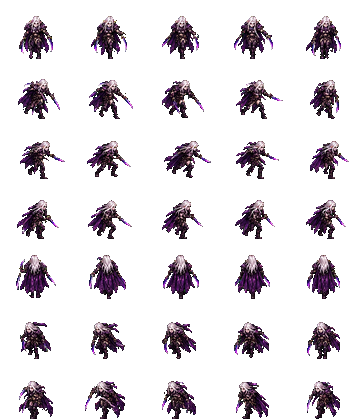
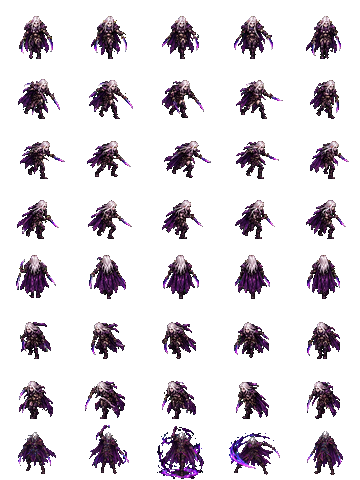
Позы применения умений для Найри, Урсуса и Малакора
Присланные позы (5 кадров с эффектом каста) добавлены восьмым рядом
в листы атаки, масштаб подогнан по росту героя. Теперь при умениях
герои проигрывают каст, а не просто поворачиваются лицом вниз.

Claude-Session: https://claude.ai/code/session_01AmWdLgRH5KkZouVun3YtrH

diff --git a/public/js/skins.js b/public/js/skins.js
@@ -30,22 +30,22 @@ window.Skins = (() => {
     },
     ursus: {
       sheet: 'assets/heroes/ursus_sheet.png', portrait: 'assets/heroes/ursus_portrait.png', w: 36, h: 48, frames: 5,
-      // Атака: 7 рядов — 5 направлений и два доп. ряда (влево); отдельной позы умения нет — для умений ряд «вниз»
-      attack: { sheet: 'assets/heroes/ursus_attack.png', w: 72, h: 60, frames: 5, rows: 7, cast: 0 },
+      // Атака: 8 рядов — 5 направлений, два доп. ряда и поза умения (последний)
+      attack: { sheet: 'assets/heroes/ursus_attack.png', w: 72, h: 60, frames: 5, rows: 8, cast: 7 },
       // bolt — летящее копьё
       fx: { sheet: 'assets/heroes/ursus_fx.png', size: 72, frames: 6, rows: ['bolt', 'hit', 'sic', 'packCall', 'spiritLink', 'aura'] },
     },
     nairi: {
       sheet: 'assets/heroes/nairi_sheet.png', portrait: 'assets/heroes/nairi_portrait.png', w: 36, h: 48, frames: 5,
-      // Атака: 7 рядов — 5 направлений и два доп. ряда; позы умения нет — для умений ряд «вниз»
-      attack: { sheet: 'assets/heroes/nairi_attack.png', w: 72, h: 60, frames: 5, rows: 7, cast: 0 },
+      // Атака: 8 рядов — 5 направлений, два доп. ряда и поза умения (последний)
+      attack: { sheet: 'assets/heroes/nairi_attack.png', w: 72, h: 60, frames: 5, rows: 8, cast: 7 },
       // bolt — летящий кинжал
       fx: { sheet: 'assets/heroes/nairi_fx.png', size: 72, frames: 6, rows: ['bolt', 'hit', 'markPrey', 'shadowDash', 'smokeScreen', 'aura'] },
     },
     malakor: {
       sheet: 'assets/heroes/malakor_sheet.png', portrait: 'assets/heroes/malakor_portrait.png', w: 36, h: 48, frames: 5,
-      // Атака: 7 рядов — 5 направлений и два доп. ряда; позы умения нет — для умений ряд «вниз»
-      attack: { sheet: 'assets/heroes/malakor_attack.png', w: 72, h: 60, frames: 5, rows: 7, cast: 0 },
+      // Атака: 8 рядов — 5 направлений, два доп. ряда и поза умения (последний)
+      attack: { sheet: 'assets/heroes/malakor_attack.png', w: 72, h: 60, frames: 5, rows: 8, cast: 7 },
       // bolt — теневой клинок (обычная атака издалека)
       fx: { sheet: 'assets/heroes/malakor_fx.png', size: 72, frames: 6, rows: ['bolt', 'hit', 'punishSeal', 'darkBlade', 'shadowJudgment', 'aura'] },
     },
